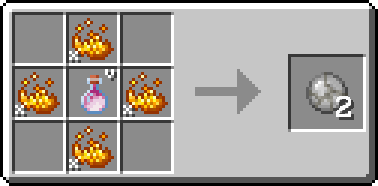
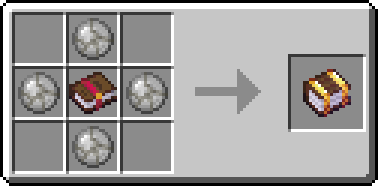
GITBOOK-57: No subject

diff --git a/changes/weapons.md b/changes/weapons.md
@@ -6,5 +6,5 @@ icon: sword
 
 The server has 2 new weapons added, these are the Anchorblade and the Scythe. The Anchorblade can be thrown and comes back to you when landing. While the scythe will pull enemies in and stun them on a crit. In addition to this, the Mace and Wind Charge are also backported from 1.21.
 
-![](../.gitbook/assets/image_2025-11-17_221550770.png)![](<../.gitbook/assets/image (10).png>)![](<../.gitbook/assets/image (2) (1).png>)![](<../.gitbook/assets/image (3) (1).png>)
+![](../.gitbook/assets/image_2025-11-17_221550770.png)![](<../.gitbook/assets/image (10).png>)![](<../.gitbook/assets/image (2) (1) (1).png>)![](<../.gitbook/assets/image (3) (1).png>)
 

diff --git a/additions/shattered-orb.md b/additions/shattered-orb.md
@@ -10,3 +10,6 @@ The Shattered Orb of Origin can be consumed to randomize your origin with a 5 se
 
 The Shattered Orb of Origin can be crafted in the following ways:
 
+<p align="center"><img src="../.gitbook/assets/image (9).png" alt=""></p>
+
+<p align="center"><img src="../.gitbook/assets/image (1) (1).png" alt=""><img src="../.gitbook/assets/image (2) (1).png" alt=""><img src="../.gitbook/assets/image (4).png" alt=""><img src="../.gitbook/assets/image (5).png" alt=""><img src="../.gitbook/assets/image (6).png" alt=""><img src="../.gitbook/assets/image (8).png" alt=""><img src="../.gitbook/assets/image.png" alt=""><img src="../.gitbook/assets/image (1).png" alt=""></p>

diff --git a/additions/obscurer-1.md b/additions/obscurer-1.md
@@ -11,7 +11,7 @@ The Enchanted Book Bundle can be right clicked to unveil a random boosted enchan
 
 It can be crafted with 4 Shattered Orbs of Origin and 1 Random Enchanted Book
 
-![](../.gitbook/assets/image.png)
+![](<../.gitbook/assets/image (2).png>)
 
 ### Usage
 
